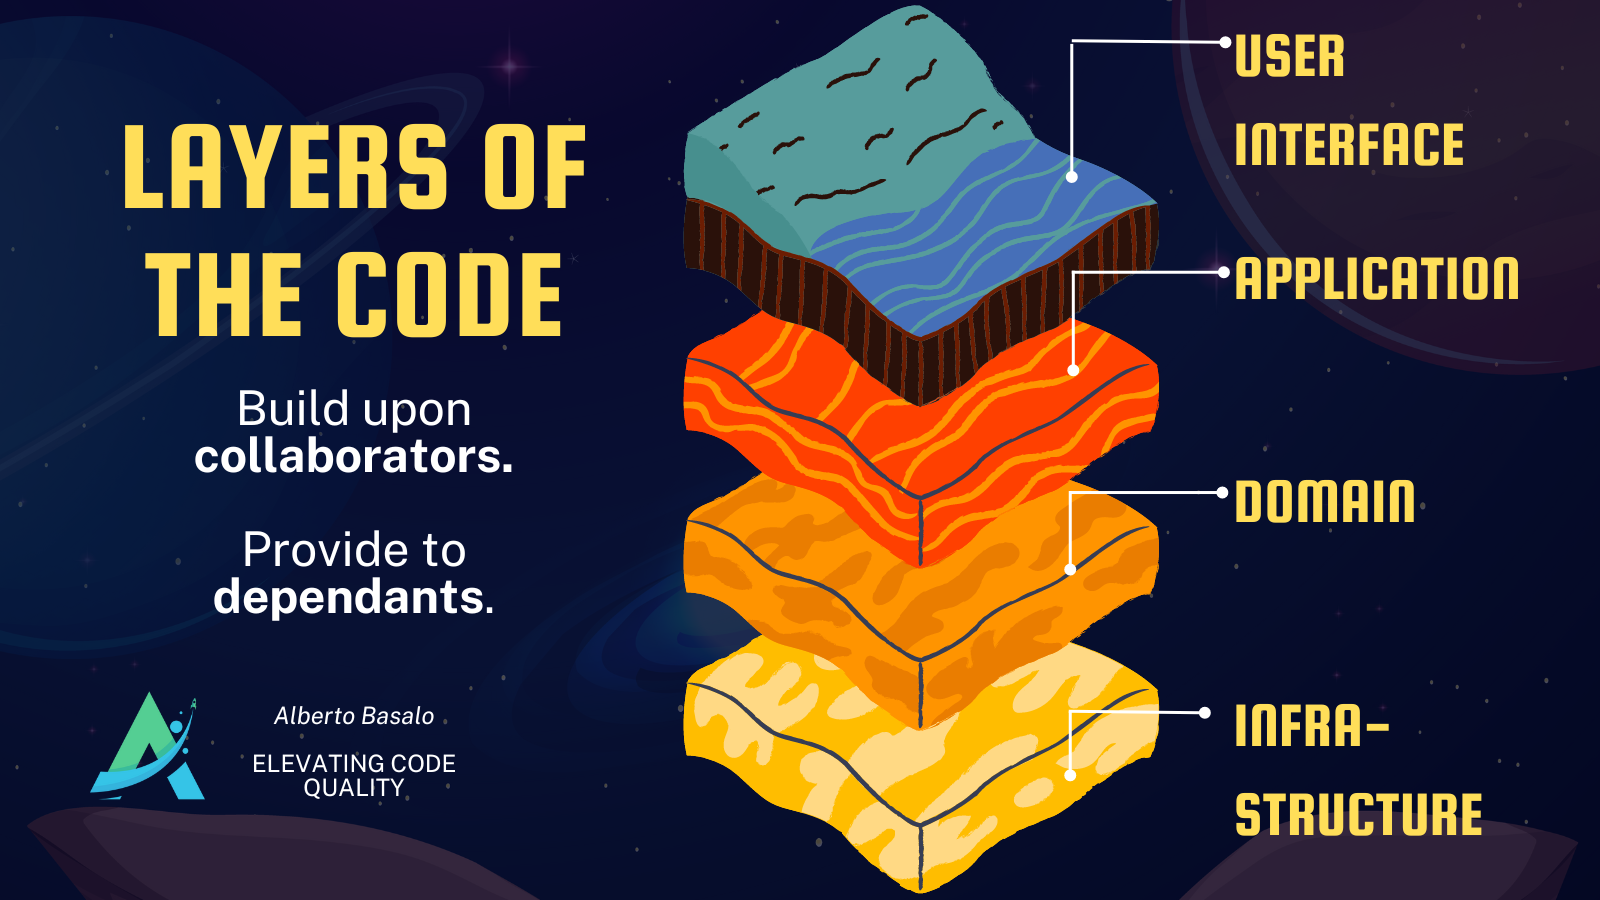
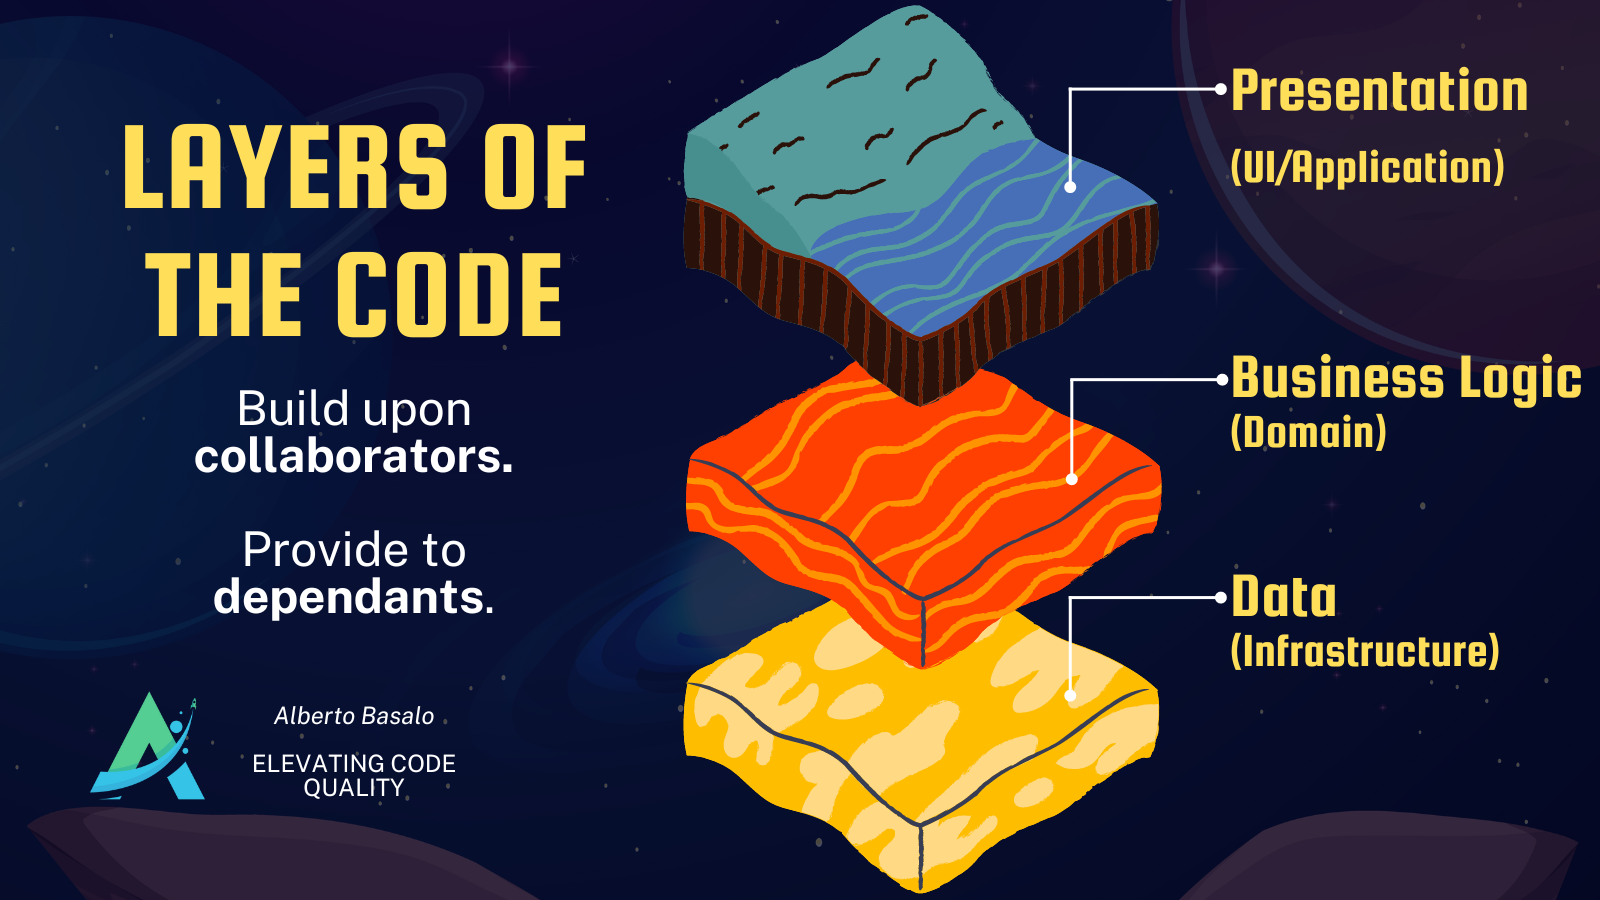
feat: layers

diff --git a/docs/1-code/6-layers/demos/0-layers.ts b/docs/1-code/6-layers/demos/0-layers.ts
@@ -1,0 +1,110 @@
+import * as fs from "fs";
+import express, { type Request, type Response } from "express";
+
+const activitiesFilePath = "./src/data/activities.json";
+const bookingsFilePath = "./src/data/bookings.json";
+const app = express();
+const PORT = 3000;
+
+app.use(express.json());
+
+app.get("/activities", (req: Request, res: Response) => {
+	try {
+		const activities: Activity[] = listActivities();
+		res.json(activities);
+	} catch (error) {
+		res.status(500).send("Error fetching activities");
+	}
+});
+
+app.post("/bookings", (req: Request, res: Response) => {
+	const { activityId, client, places } = req.body;
+	if (!activityId || !client || !places) {
+		res.status(400).send("Please provide activityId, client, and places");
+		return;
+	}
+	const status: BookingStatus = "pending";
+	const booking: Booking = {
+		activityId,
+		client,
+		places,
+		status,
+	};
+
+	try {
+		bookActivity(booking);
+		res.status(201).json(booking);
+	} catch (error) {
+		res.status(500).send("Error booking activity");
+	}
+});
+
+app.listen(PORT, () => {
+	console.log(`Server is running on port ${PORT}`);
+});
+
+const listActivities = (): Activity[] => {
+	const activities = selectAllActivities();
+	return activities;
+};
+
+const bookActivity = (booking: Booking): void => {
+	const activity = selectActivityById(booking.activityId);
+	if (!activity || !activity.id) {
+		throw new Error("Activity not found");
+	}
+	const bookings = selectBookingsByActivityId(activity.id);
+	let bookedPlaces = 0;
+	for (const bookingItem of bookings) {
+		bookedPlaces += bookingItem.places;
+	}
+	if (activity.capacity < bookedPlaces + booking.places) {
+		throw new Error("Not enough capacity");
+	}
+	booking.status = "confirmed";
+	insertBooking(booking);
+};
+
+const selectAllActivities = (): Activity[] => {
+	const activitiesData = fs.readFileSync(activitiesFilePath, "utf8");
+	return JSON.parse(activitiesData);
+};
+const selectActivityById = (id: number): Activity | undefined => {
+	const activities = selectAllActivities();
+	const found = activities.filter((activity) => activity.id === id);
+	return found.length > 0 ? found[0] : undefined;
+};
+
+const selectAllBookings = (): Booking[] => {
+	const bookingsData = fs.readFileSync(bookingsFilePath, "utf8");
+	return JSON.parse(bookingsData);
+};
+
+const selectBookingsByActivityId = (activityId: number): Booking[] => {
+	const bookings = selectAllBookings();
+	return bookings.filter((booking) => booking.activityId === activityId);
+};
+
+const insertBooking = (booking: Booking): void => {
+	const bookings = selectAllBookings();
+	booking.id = bookings.length + 1;
+	bookings.push(booking);
+	fs.writeFileSync(bookingsFilePath, JSON.stringify(bookings, null, 2));
+};
+
+type Activity = {
+	id?: number;
+	name: string;
+	price: number;
+	capacity: number;
+};
+
+type BookingStatus = "pending" | "confirmed" | "cancelled";
+
+type Booking = {
+	id?: number;
+	activityId: number;
+	client: string;
+	places: number;
+	status: BookingStatus;
+};

diff --git a/docs/1-code/6-layers/demos/dal/dal.ts b/docs/1-code/6-layers/demos/dal/dal.ts
@@ -1,0 +1,48 @@
+import * as fs from "fs";
+
+const activitiesFilePath = "./src/data/activities.json";
+const bookingsFilePath = "./src/data/bookings.json";
+
+export const selectAllActivities = (): Activity[] => {
+	const activitiesData = fs.readFileSync(activitiesFilePath, "utf8");
+	return JSON.parse(activitiesData);
+};
+export const selectActivityById = (id: number): Activity | undefined => {
+	const activities = selectAllActivities();
+	const found = activities.filter((activity) => activity.id === id);
+	return found.length > 0 ? found[0] : undefined;
+};
+
+export const selectBookingsByActivityId = (activityId: number): Booking[] => {
+	const bookings = selectAllBookings();
+	return bookings.filter((booking) => booking.activityId === activityId);
+};
+
+export const insertBooking = (booking: Booking): void => {
+	const bookings = selectAllBookings();
+	booking.id = bookings.length + 1;
+	bookings.push(booking);
+	fs.writeFileSync(bookingsFilePath, JSON.stringify(bookings, null, 2));
+};
+
+const selectAllBookings = (): Booking[] => {
+	const bookingsData = fs.readFileSync(bookingsFilePath, "utf8");
+	return JSON.parse(bookingsData);
+};
+
+export type Activity = {
+	id?: number;
+	name: string;
+	price: number;
+	capacity: number;
+};
+
+export type BookingStatus = "pending" | "confirmed" | "cancelled";
+
+export type Booking = {
+	id?: number;
+	activityId: number;
+	client: string;
+	places: number;
+	status: BookingStatus;
+};

diff --git a/docs/1-code/6-layers/demos/app/app.ts b/docs/1-code/6-layers/demos/app/app.ts
@@ -1,0 +1,42 @@
+import express, { type Request, type Response } from "express";
+
+import { bookActivity, listActivities } from "../bll/bll";
+import type { Activity, Booking, BookingStatus } from "../dal/dal";
+
+const PORT = 3000;
+const app = express();
+
+app.use(express.json());
+
+app.get("/activities", (req: Request, res: Response) => {
+	try {
+		const activities: Activity[] = listActivities();
+		res.json(activities);
+	} catch (error) {
+		res.status(500).send("Error fetching activities");
+	}
+});
+
+app.post("/bookings", (req: Request, res: Response) => {
+	const { activityId, client, places } = req.body;
+	if (!activityId || !client || !places) {
+		res.status(400).send("Please provide activityId, client, and places");
+		return;
+	}
+	const booking: Booking = {
+		activityId,
+		client,
+		places,
+		status: "pending",
+	};
+	try {
+		bookActivity(booking);
+		res.status(201).json(booking);
+	} catch (error) {
+		res.status(500).send("Error booking activity");
+	}
+});
+
+app.listen(PORT, () => {
+	console.log(`Server is running on port ${PORT}`);
+});

diff --git a/docs/1-code/6-layers/demos/bll/bll.ts b/docs/1-code/6-layers/demos/bll/bll.ts
@@ -1,0 +1,32 @@
+import {
+	type Activity,
+	type Booking,
+	insertBooking,
+	selectActivityById,
+	selectAllActivities,
+	selectBookingsByActivityId,
+} from "../dal/dal";
+
+export const listActivities = (): Activity[] => {
+	const activities = selectAllActivities();
+	// filter, order, or otherwise manipulate the data
+	return activities;
+};
+
+export const bookActivity = (booking: Booking): void => {
+	const activity = selectActivityById(booking.activityId);
+	if (!activity || !activity.id) {
+		throw new Error("Activity not found");
+	}
+	const bookings = selectBookingsByActivityId(activity.id);
+	let bookedPlaces = 0;
+	for (const bookingItem of bookings) {
+		bookedPlaces += bookingItem.places;
+	}
+	const availablePlaces = activity.capacity - bookedPlaces;
+	if (availablePlaces < booking.places) {
+		throw new Error("Not enough capacity");
+	}
+	booking.status = "confirmed";
+	insertBooking(booking);
+};
